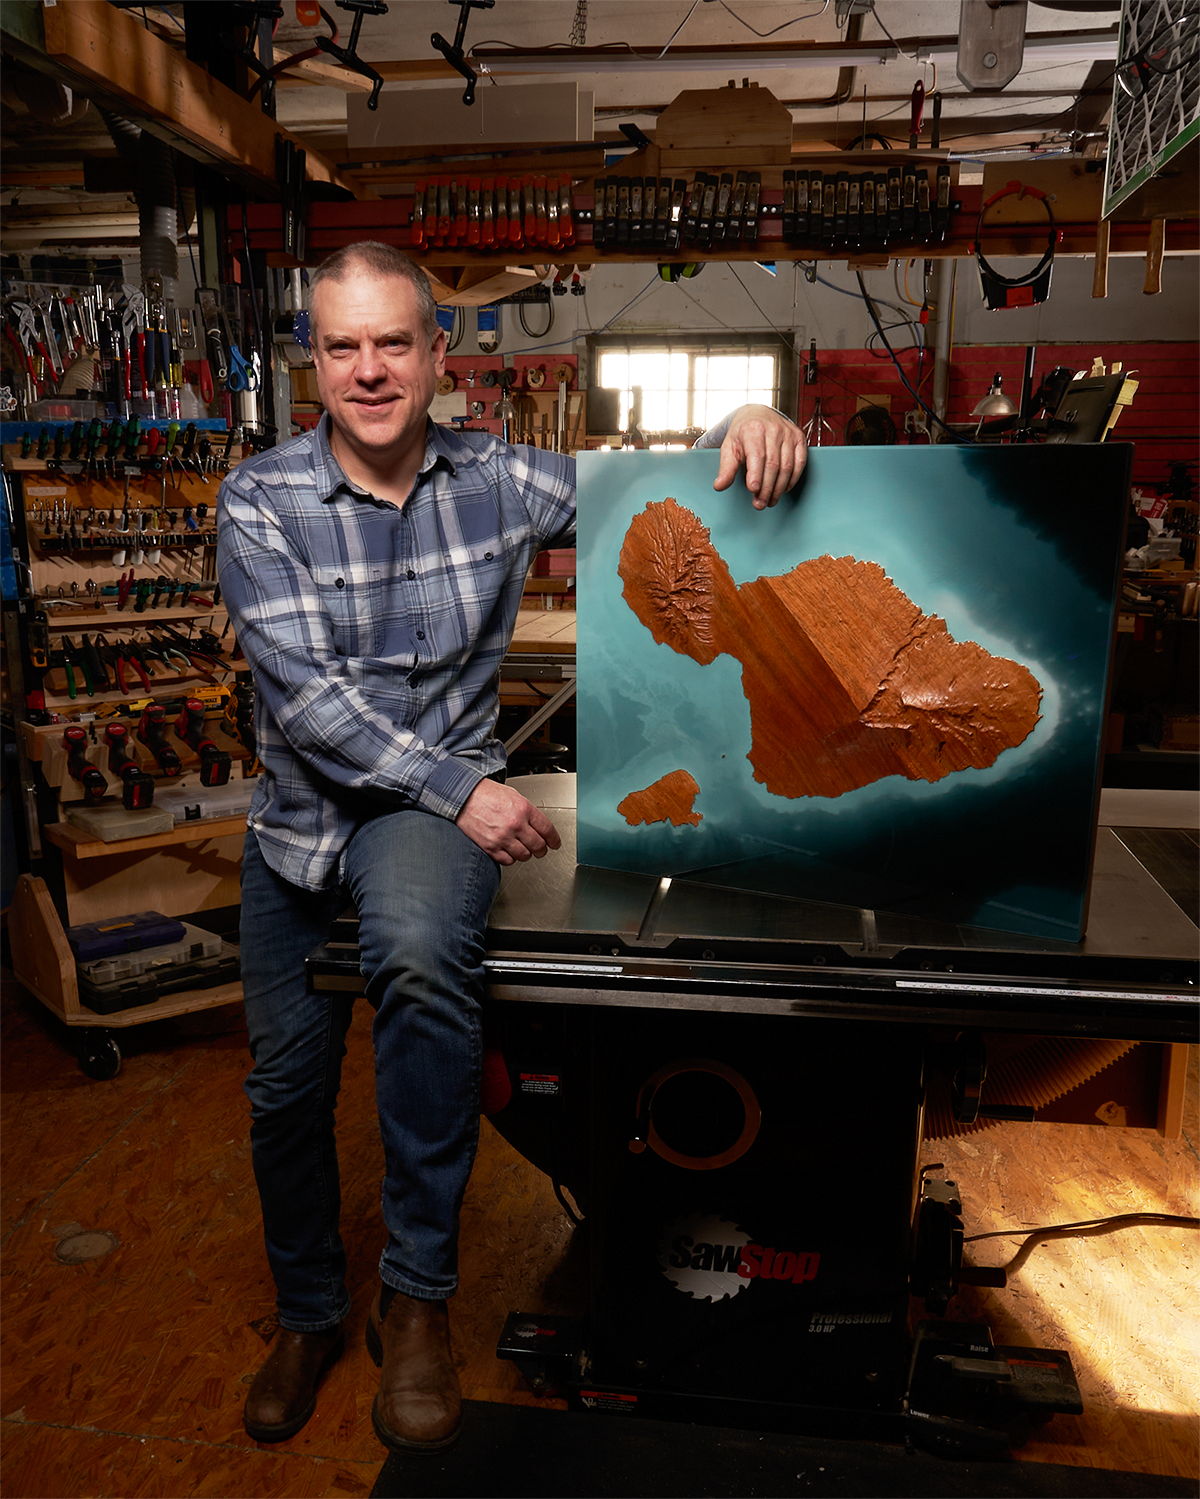
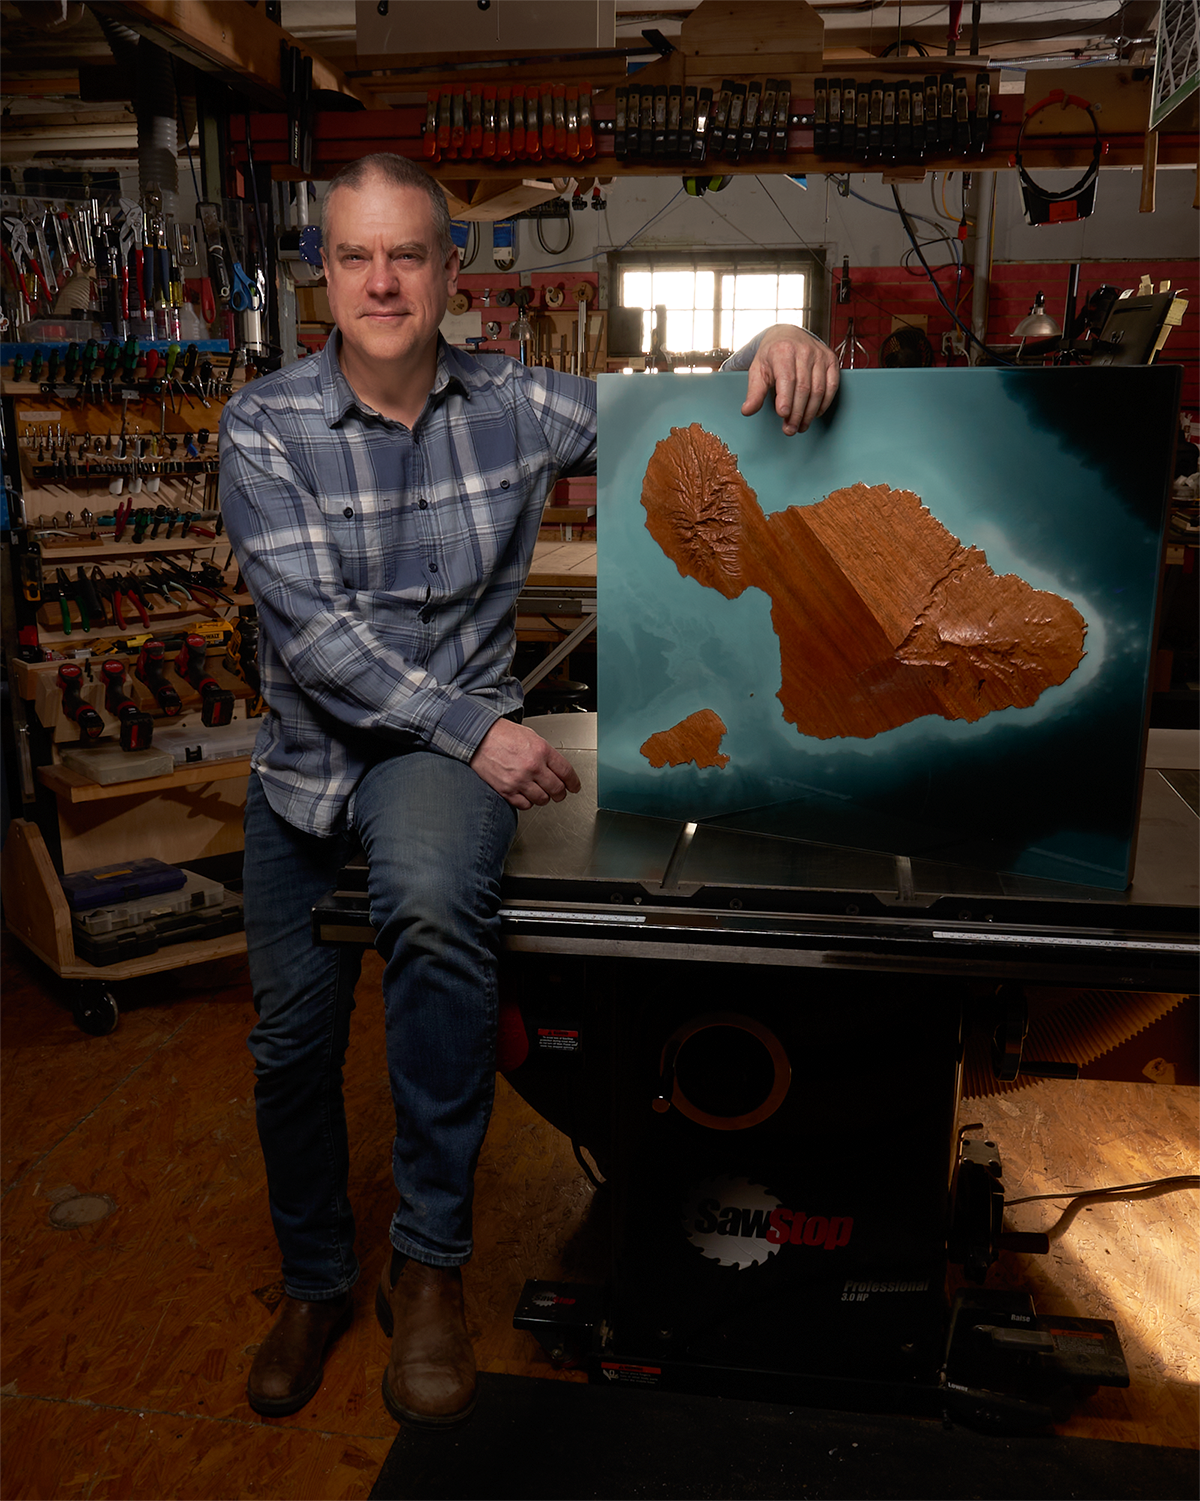
Update

diff --git a/process.html b/process.html
@@ -79,7 +79,7 @@
               </p>
               <p>
                 During the initial consultation, the focus is on listening closely. 
-                Understanding your connection to place shapes how I approach the work—from which geographic features to emphasize to materials that suit the terrain's character. 
+                Understanding your connection to place shapes how we approach the work—from which geographic features to emphasize to materials that suit the terrain's character. 
                 The conversation guides the creative direction without dictating it.
               </p>
               <p>
@@ -139,7 +139,56 @@
       <section class="process-stage" data-stage="3">
         <div class="stage-media-container">
           <div class="stage-media">
-            <img src="images/process-data.jpg" alt="Digital elevation modeling" class="stage-image" />
+            <div class="process-slider" id="process-slider"
+                 aria-label="Drag to explore the data crafting transformation">
+              <div class="process-slider__track">
+                <img src="images/process/data1-800w.webp"
+                     srcset="images/process/data1-480w.webp 480w,
+                             images/process/data1-800w.webp 800w,
+                             images/process/data1-1200w.webp 1200w,
+                             images/process/data1-1600w.webp 1600w"
+                     sizes="(max-width: 1023px) 100vw, 50vw"
+                     alt="Raw terrain elevation data"
+                     class="process-slider__img process-slider__img--1" draggable="false" />
+                <img src="images/process/data2-800w.webp"
+                     srcset="images/process/data2-480w.webp 480w,
+                             images/process/data2-800w.webp 800w,
+                             images/process/data2-1200w.webp 1200w,
+                             images/process/data2-1600w.webp 1600w"
+                     sizes="(max-width: 1023px) 100vw, 50vw"
+                     alt="Processed elevation model"
+                     class="process-slider__img process-slider__img--2" draggable="false" />
+                <img src="images/process/data3-800w.webp"
+                     srcset="images/process/data3-480w.webp 480w,
+                             images/process/data3-800w.webp 800w,
+                             images/process/data3-1200w.webp 1200w,
+                             images/process/data3-1600w.webp 1600w"
+                     sizes="(max-width: 1023px) 100vw, 50vw"
+                     alt="Toolpath preview"
+                     class="process-slider__img process-slider__img--3" draggable="false" />
+                <img src="images/process/data4-800w.webp"
+                     srcset="images/process/data4-480w.webp 480w,
+                             images/process/data4-800w.webp 800w,
+                             images/process/data4-1200w.webp 1200w,
+                             images/process/data4-1600w.webp 1600w"
+                     sizes="(max-width: 1023px) 100vw, 50vw"
+                     alt="Final carving-ready data"
+                     class="process-slider__img process-slider__img--4" draggable="false" />
+              </div>
+              <div class="process-slider__handle" id="process-slider-handle"
+                   role="slider" aria-valuemin="0" aria-valuemax="100" aria-valuenow="0"
+                   tabindex="0" aria-label="Drag to reveal data crafting stages">
+                <div class="process-slider__grip">
+                  <svg width="18" height="18" viewBox="0 0 18 18" fill="none" aria-hidden="true">
+                    <path d="M6 4L2 9L6 14" stroke="#C7A86A" stroke-width="1.5" stroke-linecap="round" stroke-linejoin="round"/>
+                    <path d="M12 4L16 9L12 14" stroke="#C7A86A" stroke-width="1.5" stroke-linecap="round" stroke-linejoin="round"/>
+                  </svg>
+                </div>
+              </div>
+              <div class="process-slider__hint" id="process-slider-hint" aria-hidden="true">
+                <span>Drag to explore</span>
+              </div>
+            </div>
           </div>
         </div>
         <div class="stage-content-container">
@@ -202,13 +251,18 @@
               It’s a quiet layer of storytelling that binds the design to the land before any finish or resin is applied.
               </p>
               <p>
-              Then the hand work begins. The surface is sanded through multiple grits, following the terrain’s natural flow. 
+              Then the hand work begins. 
+              The surface is sanded through multiple grits, following the terrain’s natural flow. 
               Edges are refined to suit the piece, and the finish is built in layers—stains, oils, or shellac—then sealed for depth and longevity.
               </p>
               <p>
-              Where water is part of the story, resin is poured in custom tones—applied by hand with surgical precision—for depth and clarity.
+              Where water is part of the story, resin is poured in custom tones—applied by hand with surgical precision—for depth and clarity. 
+              The 7-10 day curing process is closely monitored to eliminate imperfections.
               </p>
-               <p>
+              <p>
+              Polishing the cured resin is a meticulous process of wet-sanding by hand through grits up to 5000, followed by a 2-stage buffing process to achieve a glass-like clarity that reveals the terrain’s depth and detail.
+              </p>
+              <p>
               The frame is made specifically for the piece it surrounds—proportioned, milled, 
               and assembled with spline joinery for crisp, strong corners with no visible hardware.
              </p>

diff --git a/index.html b/index.html
@@ -132,25 +132,7 @@
             <a href="process.html" class="btn btn--primary fade-in-scroll">View the Process</a>
           </div>
           <div class="split-media">
-            <div class="process-slider" id="process-slider" aria-label="Drag to explore the transformation from terrain data to finished art">
-              <div class="process-slider__track">
-                <img src="images/discovery/discover1.png" alt="Geographic terrain data" class="process-slider__img process-slider__img--1" draggable="false" />
-                <img src="images/discovery/discover2.png" alt="Heightmap data" class="process-slider__img process-slider__img--2" draggable="false" />
-                <img src="images/discovery/discover3.png" alt="3D relief model" class="process-slider__img process-slider__img--3" draggable="false" />
-                <img src="images/discovery/discover4.webp" alt="Finished sculptural piece" class="process-slider__img process-slider__img--4" draggable="false" />
-              </div>
-              <div class="process-slider__handle" id="process-slider-handle" role="slider" aria-valuemin="0" aria-valuemax="100" aria-valuenow="0" tabindex="0" aria-label="Drag to reveal transformation stages">
-                <div class="process-slider__grip">
-                  <svg width="18" height="18" viewBox="0 0 18 18" fill="none" aria-hidden="true">
-                    <path d="M6 4L2 9L6 14" stroke="#C7A86A" stroke-width="1.5" stroke-linecap="round" stroke-linejoin="round"/>
-                    <path d="M12 4L16 9L12 14" stroke="#C7A86A" stroke-width="1.5" stroke-linecap="round" stroke-linejoin="round"/>
-                  </svg>
-                </div>
-              </div>
-              <div class="process-slider__hint" id="process-slider-hint" aria-hidden="true">
-                <span>Drag to explore</span>
-              </div>
-            </div>
+            <img src="images/process-preview.jpg" alt="Fabrication process" class="split-image" />
           </div>
         </div>
       </div>
@@ -196,51 +178,6 @@
   </footer>
 
   <script src="js/scripts.js"></script>
-  <script>
-    (function () {
-      const slider  = document.getElementById('process-slider');
-      const handle  = document.getElementById('process-slider-handle');
-      const hint    = document.getElementById('process-slider-hint');
-      if (!slider || !handle) return;
-
-      const imgs = slider.querySelectorAll('.process-slider__img');
-      let dragging = false;
-      let progress = 0;
-
-      function applyProgress(p) {
-        progress = Math.max(0, Math.min(1, p));
-        handle.style.left = (progress * 100) + '%';
-        handle.setAttribute('aria-valuenow', Math.round(progress * 100));
-        imgs.forEach(function(img, i) {
-          if (i === 0) { img.style.opacity = 1; return; }
-          const start = (i - 1) / 3;
-          const end   = i / 3;
-          const alpha = Math.max(0, Math.min(1, (progress - start) / (end - start)));
-          img.style.opacity = alpha;
-        });
-        if (progress > 0.02 && hint) hint.style.opacity = '0';
-      }
-
-      function progressFromEvent(e) {
-        const rect = slider.getBoundingClientRect();
-        const clientX = e.touches ? e.touches[0].clientX : e.clientX;
-        return (clientX - rect.left) / rect.width;
-      }
-
-      handle.addEventListener('mousedown', function(e) { dragging = true; e.preventDefault(); });
-      window.addEventListener('mousemove', function(e) { if (dragging) applyProgress(progressFromEvent(e)); });
-      window.addEventListener('mouseup',   function()  { dragging = false; });
-      handle.addEventListener('touchstart', function()  { dragging = true; }, { passive: true });
-      window.addEventListener('touchmove',  function(e) { if (dragging) applyProgress(progressFromEvent(e)); }, { passive: true });
-      window.addEventListener('touchend',   function()  { dragging = false; });
-      handle.addEventListener('keydown', function(e) {
-        if (e.key === 'ArrowRight') applyProgress(progress + 0.05);
-        if (e.key === 'ArrowLeft')  applyProgress(progress - 0.05);
-      });
-
-      applyProgress(0);
-    })();
-  </script>
 </body>
 </html>
 

diff --git a/js/process.js b/js/process.js
@@ -208,3 +208,50 @@ window.addEventListener('resize', updateActiveStage);
 setTimeout(updateActiveStage, 100);
 
 console.log('✓ Process scrollytelling scripts loaded');
+
+// ============================================
+// PROCESS SLIDER — Data Crafting (Stage 03)
+// ============================================
+(function () {
+  const slider  = document.getElementById('process-slider');
+  const handle  = document.getElementById('process-slider-handle');
+  const hint    = document.getElementById('process-slider-hint');
+  if (!slider || !handle) return;
+
+  const imgs = slider.querySelectorAll('.process-slider__img');
+  let dragging = false;
+  let progress = 0;
+
+  function applyProgress(p) {
+    progress = Math.max(0, Math.min(1, p));
+    handle.style.left = (progress * 100) + '%';
+    handle.setAttribute('aria-valuenow', Math.round(progress * 100));
+    imgs.forEach(function(img, i) {
+      if (i === 0) { img.style.opacity = 1; return; }
+      const start = (i - 1) / 3;
+      const end   = i / 3;
+      const alpha = Math.max(0, Math.min(1, (progress - start) / (end - start)));
+      img.style.opacity = alpha;
+    });
+    if (progress > 0.02 && hint) hint.style.opacity = '0';
+  }
+
+  function progressFromEvent(e) {
+    const rect = slider.getBoundingClientRect();
+    const clientX = e.touches ? e.touches[0].clientX : e.clientX;
+    return (clientX - rect.left) / rect.width;
+  }
+
+  handle.addEventListener('mousedown', function(e) { dragging = true; e.preventDefault(); });
+  window.addEventListener('mousemove', function(e) { if (dragging) applyProgress(progressFromEvent(e)); });
+  window.addEventListener('mouseup',   function()  { dragging = false; });
+  handle.addEventListener('touchstart', function()  { dragging = true; }, { passive: true });
+  window.addEventListener('touchmove',  function(e) { if (dragging) applyProgress(progressFromEvent(e)); }, { passive: true });
+  window.addEventListener('touchend',   function()  { dragging = false; });
+  handle.addEventListener('keydown', function(e) {
+    if (e.key === 'ArrowRight') applyProgress(progress + 0.05);
+    if (e.key === 'ArrowLeft')  applyProgress(progress - 0.05);
+  });
+
+  applyProgress(0);
+})();

diff --git a/css/index.css b/css/index.css
@@ -500,72 +500,4 @@
   z-index: 1;
 }
 
-/* ============================================
-   PROCESS SLIDER — Geography to Art
-   ============================================ */
-.process-slider {
-  position: relative;
-  width: 100%;
-  aspect-ratio: 4 / 5;
-  overflow: hidden;
-  cursor: ew-resize;
-  user-select: none;
-  -webkit-user-select: none;
-  border: 1px solid rgba(199, 168, 106, 0.18);
-}
-.process-slider__track { position: absolute; inset: 0; }
-.process-slider__img {
-  position: absolute;
-  inset: 0;
-  width: 100%;
-  height: 100%;
-  object-fit: cover;
-  display: block;
-  transition: opacity 0.08s linear;
-  pointer-events: none;
-}
-.process-slider__img--1 { z-index: 1; }
-.process-slider__img--2 { z-index: 2; }
-.process-slider__img--3 { z-index: 3; }
-.process-slider__img--4 { z-index: 4; }
-.process-slider__handle {
-  position: absolute;
-  top: 0; bottom: 0; left: 0;
-  width: 2px;
-  background: var(--color-brass);
-  z-index: 10;
-  transform: translateX(-50%);
-}
-.process-slider__grip {
-  position: absolute;
-  top: 50%; left: 50%;
-  transform: translate(-50%, -50%);
-  width: 2.75rem; height: 2.75rem;
-  background: var(--color-charcoal);
-  border: 1px solid var(--color-brass);
-  border-radius: 50%;
-  display: flex;
-  align-items: center;
-  justify-content: center;
-  box-shadow: 0 2px 12px rgba(0,0,0,0.4);
-  transition: background 0.2s ease;
-}
-.process-slider__handle:hover .process-slider__grip,
-.process-slider__handle:focus .process-slider__grip { background: #1e1e1e; }
-.process-slider__handle:focus { outline: none; }
-.process-slider__handle:focus-visible .process-slider__grip { box-shadow: 0 0 0 2px var(--color-brass); }
-.process-slider__hint {
-  position: absolute;
-  bottom: 1.25rem;
-  left: 50%;
-  transform: translateX(-50%);
-  z-index: 11;
-  font-family: var(--font-secondary);
-  font-size: 0.65rem;
-  letter-spacing: 0.14em;
-  text-transform: uppercase;
-  color: rgba(247, 246, 243, 0.55);
-  pointer-events: none;
-  transition: opacity 0.6s ease;
-  white-space: nowrap;
-}
+

diff --git a/css/process.css b/css/process.css
@@ -330,3 +330,72 @@
   color: var(--color-brass);
 }
 
+/* ============================================
+   PROCESS SLIDER — Data Crafting (Stage 03)
+   ============================================ */
+.process-slider {
+  position: relative;
+  width: 100%;
+  height: 100%;
+  overflow: hidden;
+  cursor: ew-resize;
+  user-select: none;
+  -webkit-user-select: none;
+}
+.process-slider__track { position: absolute; inset: 0; }
+.process-slider__img {
+  position: absolute;
+  inset: 0;
+  width: 100%;
+  height: 100%;
+  object-fit: cover;
+  display: block;
+  transition: opacity 0.08s linear;
+  pointer-events: none;
+}
+.process-slider__img--1 { z-index: 1; }
+.process-slider__img--2 { z-index: 2; }
+.process-slider__img--3 { z-index: 3; }
+.process-slider__img--4 { z-index: 4; }
+.process-slider__handle {
+  position: absolute;
+  top: 0; bottom: 0; left: 0;
+  width: 2px;
+  background: var(--color-brass);
+  z-index: 10;
+  transform: translateX(-50%);
+}
+.process-slider__grip {
+  position: absolute;
+  top: 50%; left: 50%;
+  transform: translate(-50%, -50%);
+  width: 2.75rem; height: 2.75rem;
+  background: var(--color-charcoal);
+  border: 1px solid var(--color-brass);
+  border-radius: 50%;
+  display: flex;
+  align-items: center;
+  justify-content: center;
+  box-shadow: 0 2px 12px rgba(0,0,0,0.4);
+  transition: background 0.2s ease;
+}
+.process-slider__handle:hover .process-slider__grip,
+.process-slider__handle:focus .process-slider__grip { background: #1e1e1e; }
+.process-slider__handle:focus { outline: none; }
+.process-slider__handle:focus-visible .process-slider__grip { box-shadow: 0 0 0 2px var(--color-brass); }
+.process-slider__hint {
+  position: absolute;
+  bottom: 1.25rem;
+  left: 50%;
+  transform: translateX(-50%);
+  z-index: 11;
+  font-family: var(--font-secondary);
+  font-size: 0.65rem;
+  letter-spacing: 0.14em;
+  text-transform: uppercase;
+  color: rgba(247, 246, 243, 0.55);
+  pointer-events: none;
+  transition: opacity 0.6s ease;
+  white-space: nowrap;
+}
+

diff --git a/about.html b/about.html
@@ -45,7 +45,7 @@
       <div class="section-container">
         <div class="story-layout">
           <div class="story-image-wrapper">
-            <img src="images/about/jm-about-100w.webp" alt="Founder in the studio" class="story-image fade-in-scroll" />
+            <img src="images/about/jm-1600w.webp" alt="Founder in the studio" class="story-image fade-in-scroll" />
           </div>
           <div class="story-content">
             <div class="story-text">
